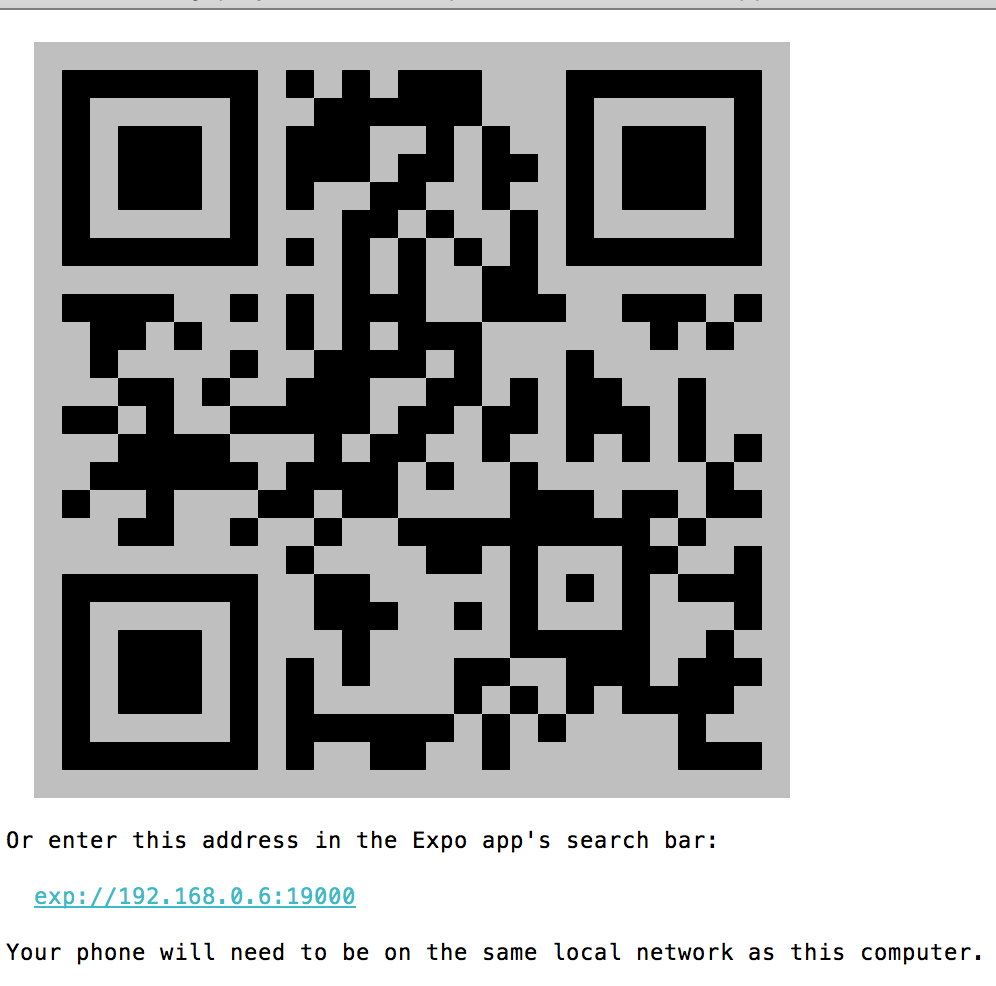
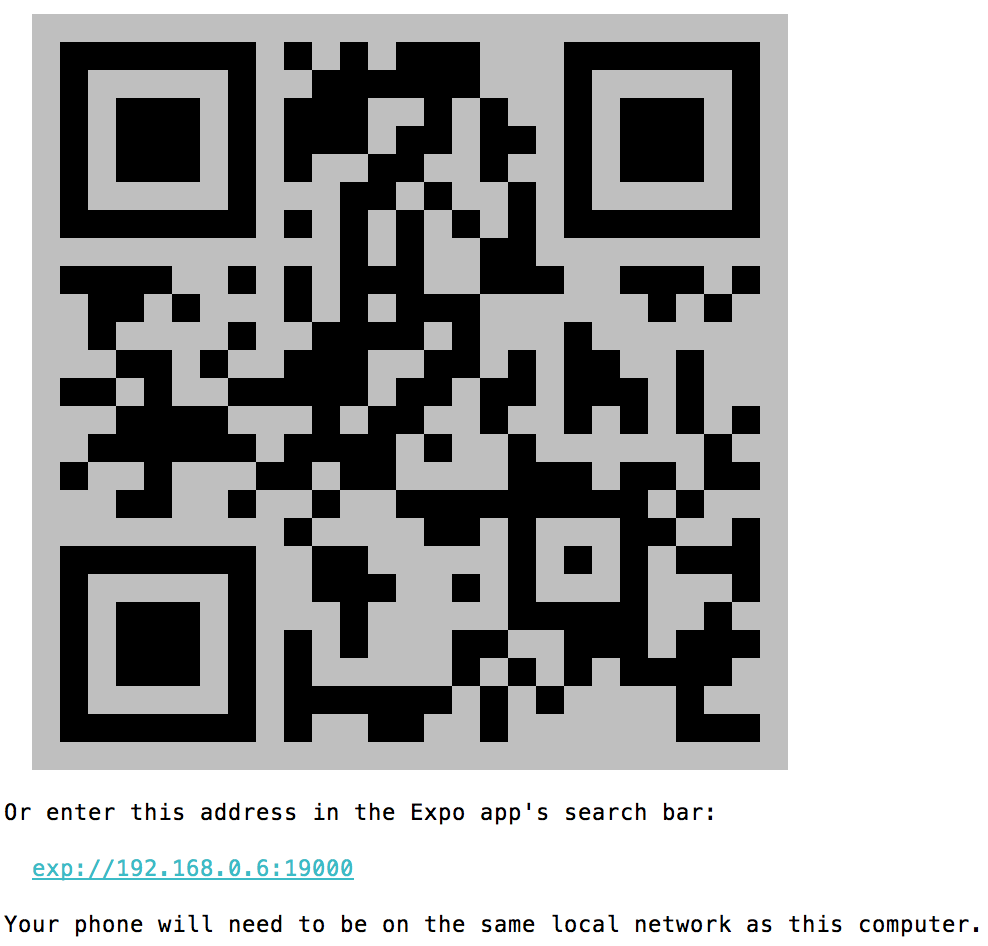
Update layout

diff --git a/_sass/_layout.scss b/_sass/_layout.scss
@@ -463,3 +463,5 @@ img {
 .cms-editor-active .editor-link {
 	display: block;
 }
+
+img[alt=qr] { width: 400px; }

diff --git a/_docs/1.stalk/stalk_im.md b/_docs/1.stalk/stalk_im.md
@@ -1,15 +1,11 @@
 ---
-title: STALK-IM
+title: STALK SERVER
 category: stalk
 order: 1
 ---
 
-## STALK-IM
-
-STALK-IM은 XPush를 활용한 풀스택(FullStack) 오픈소스 메신저 플랫폼이다. STALK-IM를 활용하면 메신저 서비스를 쉽게 구현할 수 있으며, 디자인을 수정하거나 기능을 추가하여 새로운 메신저를 개발할 수 있다. STALK-IM은 메신저 개발에 필요한 유저관리, 데이터 관리, 메시지 전송, 이미지 전송 기능들을 API의 형태로 담당하는 STALK-SERVER와 메신저 화면을 실제로 구현한 STALK-MESSENGER로 구성되어 있다.
-
-###	STALK Messenger Server
-[STALK SERVER](https://github.com/S5Platform/stalk-messenger-server)는 메신저 개발에 필요한 사용자 관리, 데이터 관리, 메시지 전송 등의 기능을 제공하는 Node.js 기반의 백엔드 서버 BackEnd Server)이다. npm이나 docker를 이용하여 직접 설치하여 사용할 수 있다. 유저 관리, 데이터 관리 등은 Parse Server를 활용하여 API 형태로 제공하고, XPush를 활용하여 부하분산을 고려한 메시지 전송이 가능하도록 설계되었다. STALK-SERVER에서 제공하고 있는 주요 기능은 아래와 같다.
+###	STALK SERVER
+[STALK SERVER](https://github.com/S5Platform/stalk-messenger-server)는 메신저 개발에 필요한 사용자 관리, 데이터 관리, 메시지 전송 등의 기능을 제공하는 Node.js 기반의 백엔드 서버 BackEnd Server)이다. npm이나 docker를 이용하여 직접 설치하여 사용할 수 있다. 유저 관리, 데이터 관리 등은 Parse Server를 활용하여 API 형태로 제공하고, [XPush](https://github.com/xpush/node-xpush)를 활용하여 부하분산을 고려한 메시지 전송이 가능하도록 설계되었다. STALK-SERVER에서 제공하고 있는 주요 기능은 아래와 같다.
 
 -	유저 관리 : 회원가입, 로그인, 로그아웃, 프로필 관리
 -	친구 관리 : 사용자조회, 친구추가, 친구삭제
@@ -37,20 +33,10 @@ export VERBOSE=1  # logging verbose
 ```
 
 채널서버는 XPush의 메시지 전송 기능을 활용한 채팅 서버이다.
-접속 정보를 보관하기 위해 Redis와 Zookeeper를 활용하고 있기 때문에 redis의 설치가 필요하다.
+채널 서버의 정보를 동적으로 관리하기 위해 Redis와 Zookeeper를 활용하고 있기 때문에 redis와 zookeeper의 설치가 필요하다.
 
-Redis 설치 후, 아래 명령어를 통해 실행할 수 있다.
+Redis와 Zookeeper 설치 후, 아래 명령어를 통해 실행할 수 있다.
 
 ```
 ./bin/start --channel
 ```
-
-
-### STALK-MESSENGER
-
-STALK-MESSENGER는 STALK-SERVER의 API를 사용하여 React-Native 기반으로 화면을 개발한 오픈소스 메신저이다. 기본으로 제공하는 컴포넌트를 활용하여 비교적 쉽게 화면을 구성하거나 스타일을 변경할 수 있다. React-Native를 활용하면 하나의 소스를 이용하여 Android나 IOS 앱을 제작할 수 있다는 장점이 있다. MIT 라이선스를 사용하며 모든 소스가 공개되어 있기 때문에 그대로 사용하거나, 소스를 수정하여 자체적인 메신저를 쉽게 개발할 수 있다. STALK-MESSENGER에서 구현하고 있는 기능은 아래와 같다.
-
--	유저관리 : 회원가입, 로그인, 로그아웃, 프로필 수정, 프로필 이미지 등록
--	친구관리 : 사용자조회, 친구추가, 친구삭제
--	채널관리 : 채널조회, 채널삭제, 사용자초대, 채널 이미지 표시
--	메세지관리 : 이전 메시지 조회, 메시지 전송, 이미지 전송, 푸시 알림

diff --git a/_docs/1.stalk/stalk_messenger.md b/_docs/1.stalk/stalk_messenger.md
@@ -1,0 +1,15 @@
+---
+title: STALK MESSENGER
+category: stalk
+order: 2
+---
+
+### STALK MESSENGER
+
+STALK-MESSENGER는 STALK-SERVER의 API를 사용하여 React Native 기반으로 화면을 개발한 오픈소스 메신저이다. 기본으로 제공하는 컴포넌트를 활용하여 비교적 쉽게 화면을 구성하거나 스타일을 변경할 수 있다. React Native를 활용하면 하나의 소스를 이용하여 Android나 IOS 앱을 제작할 수 있다는 장점이 있다. MIT 라이선스를 사용하며 모든 소스가 공개되어 있기 때문에 그대로 사용하거나, 소스를 수정하여 자체적인 메신저를 쉽게 개발할 수 있다. STALK MESSENGER에서 구현하고 있는 기능은 아래와 같다.
+
+-	유저관리 : 회원가입, 로그인, 로그아웃, 프로필 수정, 프로필 이미지 등록
+-	친구관리 : 사용자조회, 친구추가, 친구삭제
+-	채널관리 : 채널조회, 채널삭제, 사용자초대, 채널 이미지 표시
+-	메세지관리 : 이전 메시지 조회, 메시지 전송, 이미지 전송, 푸시 알림
+

diff --git a/index.md b/index.md
@@ -2,4 +2,6 @@
 title: Welcome
 ---
 
-### S5Platform
+## STALK-IM
+
+STALK-IM은 [XPush](https://github.com/xpush/node-xpush)를 활용한 풀스택(FullStack) 오픈소스 메신저 플랫폼이다. STALK-IM를 활용하면 메신저 서비스를 쉽게 구현할 수 있으며, 디자인을 수정하거나 기능을 추가하여 새로운 메신저를 개발할 수 있다. STALK-IM은 메신저 개발에 필요한 유저관리, 데이터 관리, 메시지 전송, 이미지 전송 기능들을 API의 형태로 담당하는 STALK SERVER와 메신저 화면을 실제로 구현한 STALK MESSENGER로 구성되어 있다.

diff --git a/_docs/3.etc/react_native.md b/_docs/3.etc/react_native.md
@@ -55,7 +55,7 @@ npm start
 
 `create-react-native-app`으로 생성된 프로젝트를 실행하면 아래와 같이 QR Code 가 나오는데,
 
-![QR Code](/images/qr.png)
+![qr](/images/qr.png)
 
 [Expo App](https://expo.io/tools)을 통해 해당 QR Code 를 인식시키면 해당 디바이스에서 테스트가 가능하다.
 
